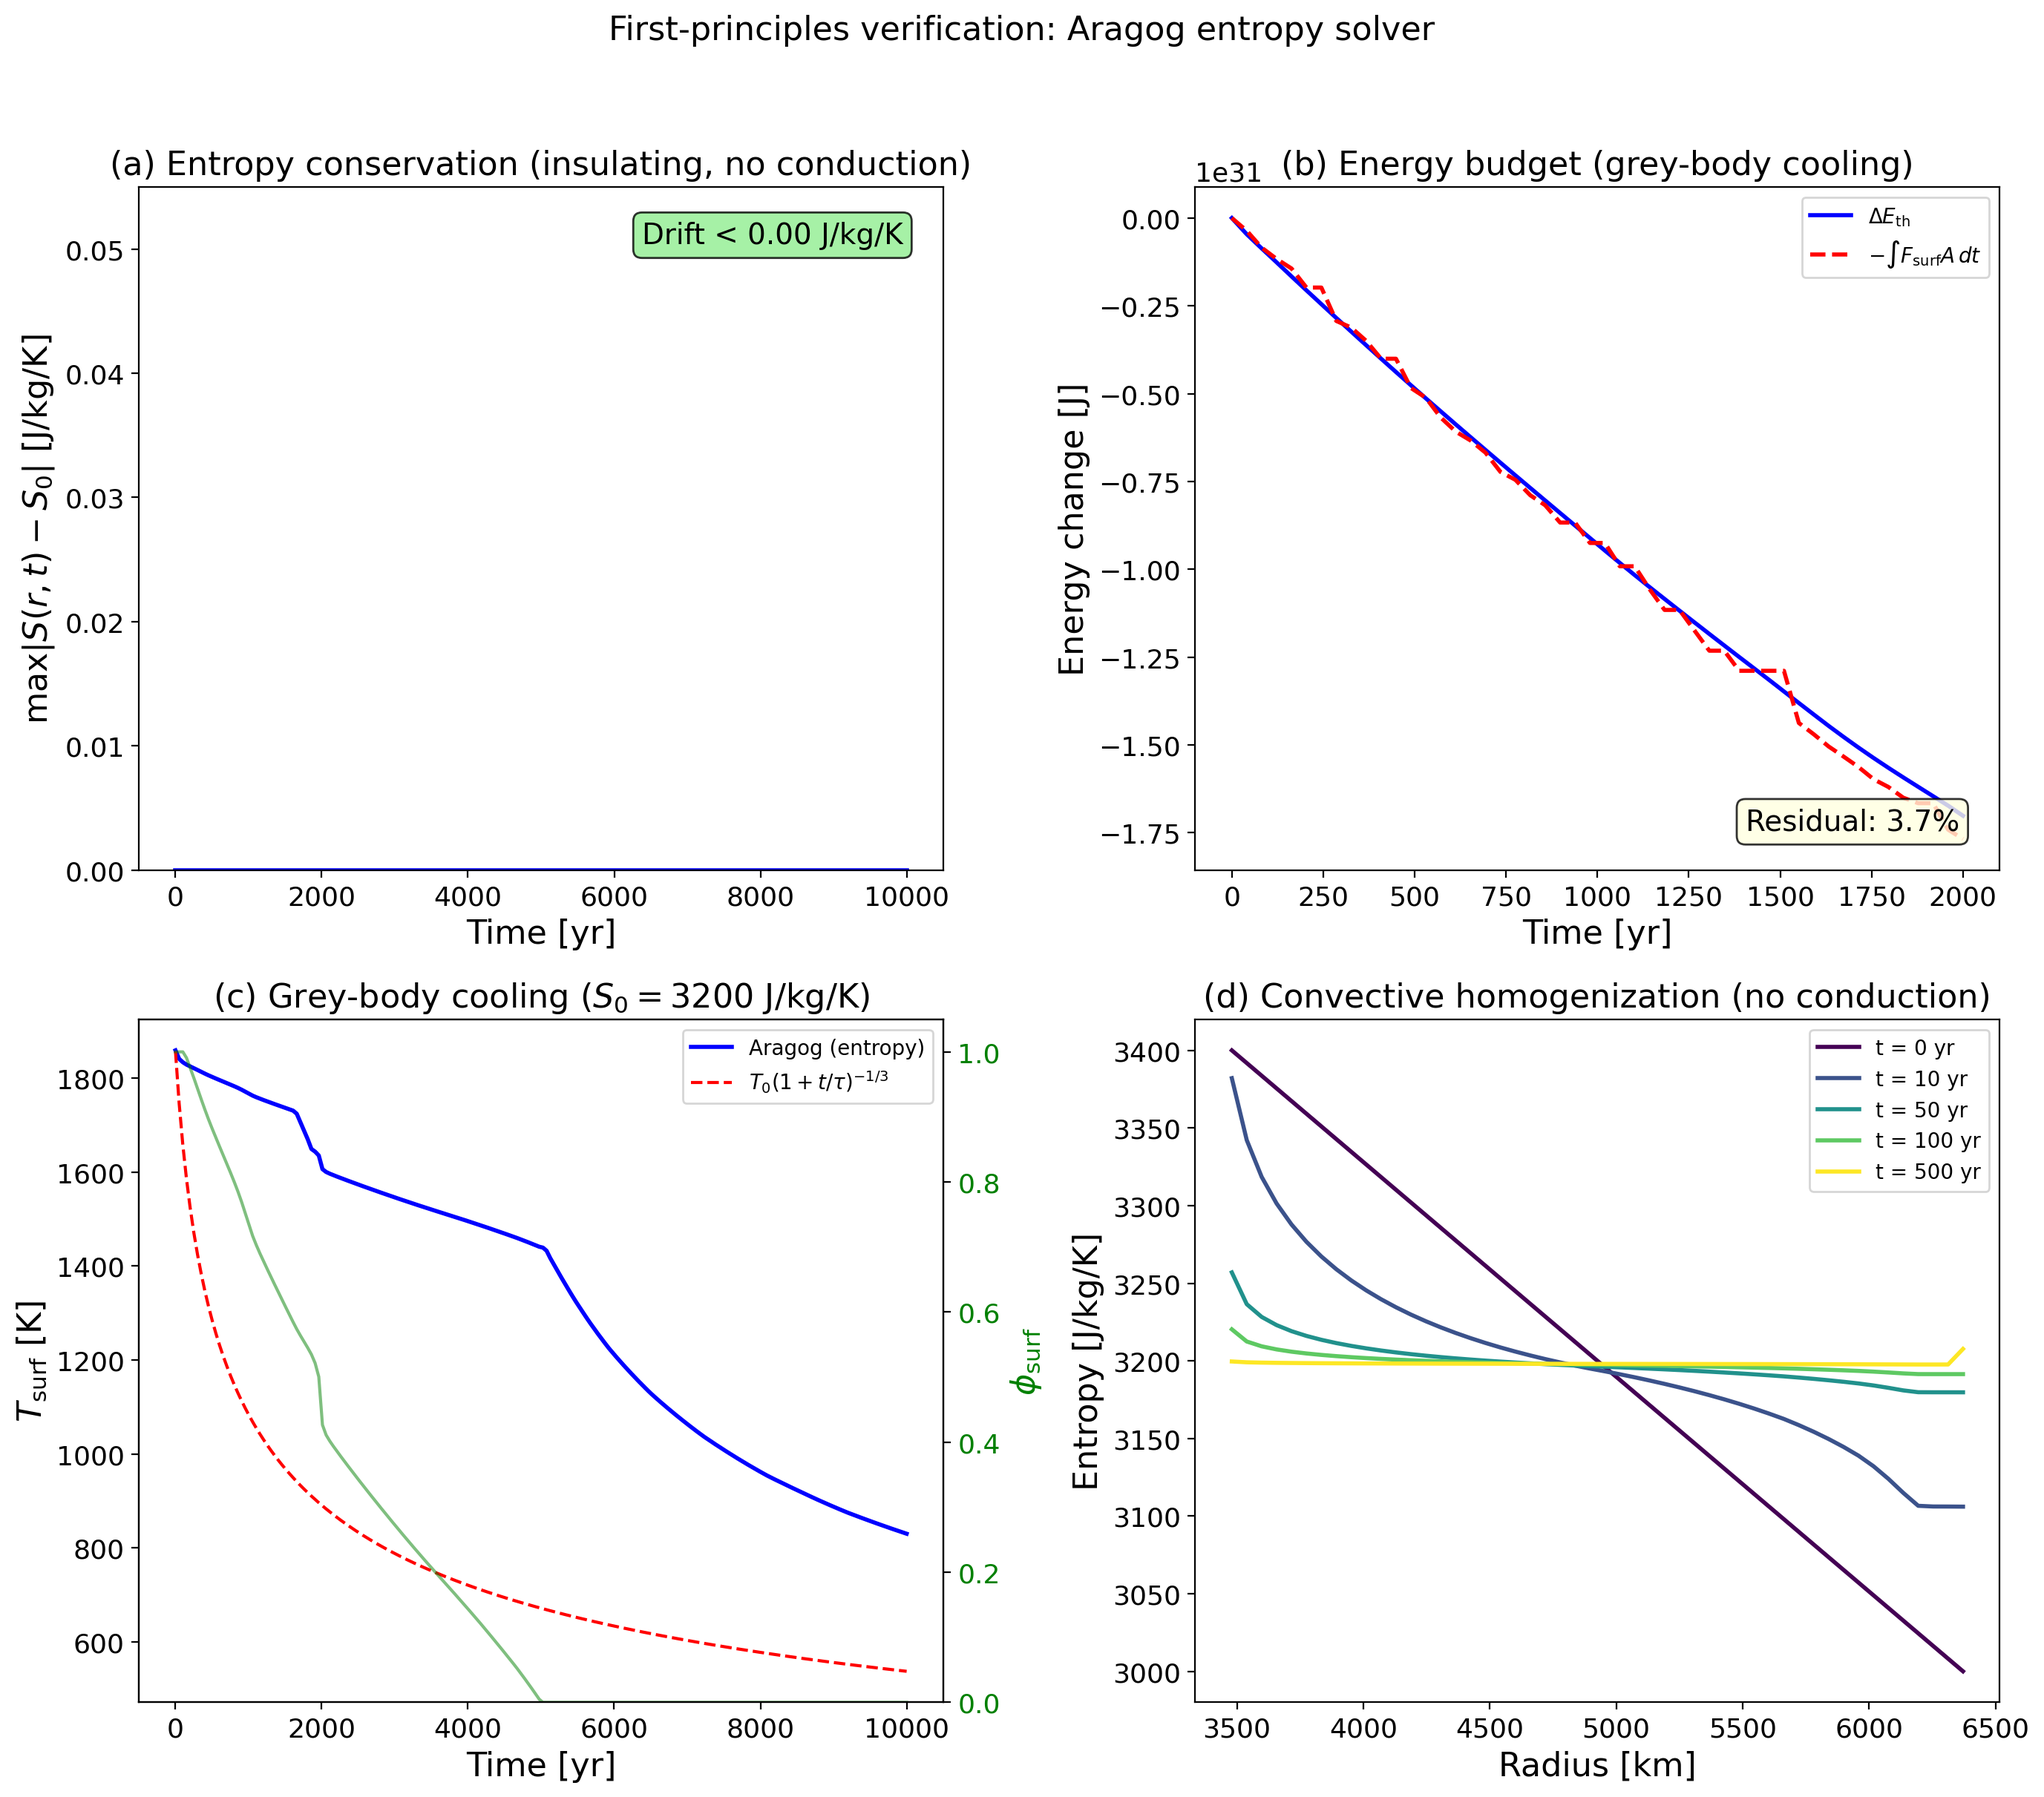
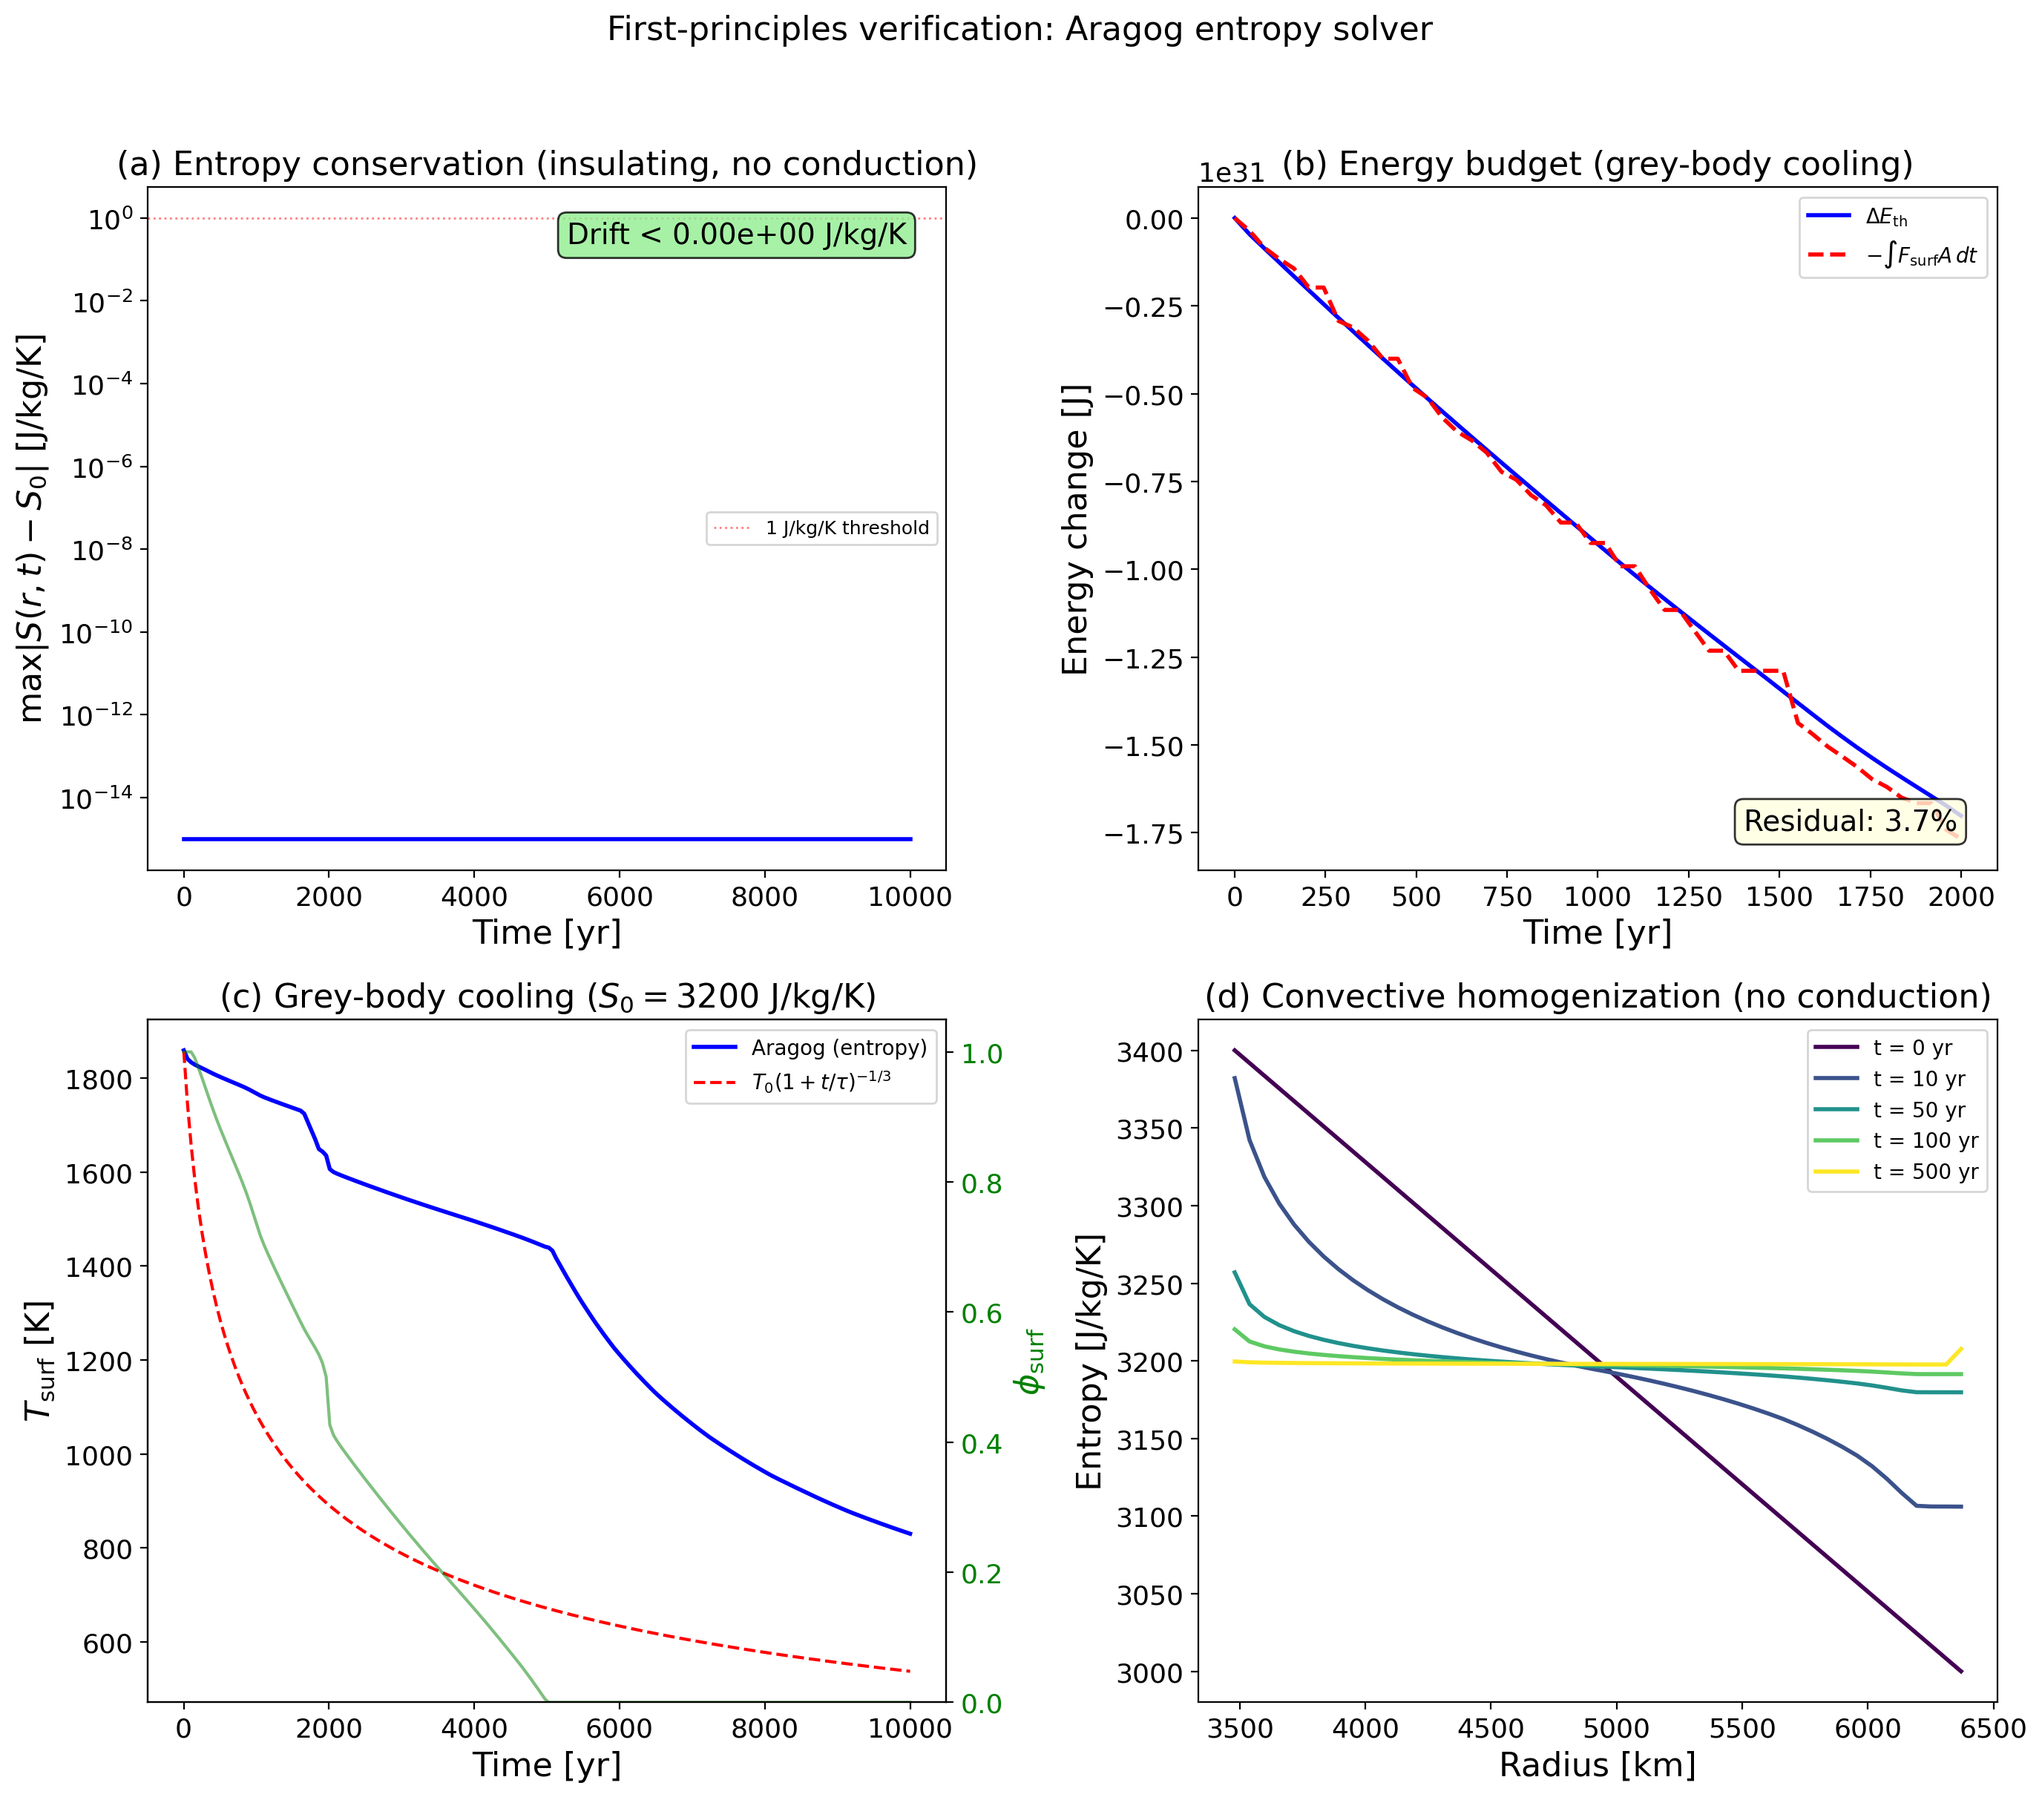
Panel (a): log y-axis for entropy conservation drift

diff --git a/output/entropy_verification/run_verification.py b/output/entropy_verification/run_verification.py
@@ -228,12 +228,13 @@ def main():
 
     # Panel (a): Entropy conservation
     ax = axes[0, 0]
-    ax.plot(times1, max_drift, 'b-', linewidth=2)
+    ax.semilogy(times1, np.maximum(max_drift, 1e-15), 'b-', linewidth=2)
     ax.set_xlabel('Time [yr]')
     ax.set_ylabel(r'max$|S(r,t) - S_0|$ [J/kg/K]')
     ax.set_title('(a) Entropy conservation (insulating, no conduction)')
-    ax.set_ylim(bottom=0)
-    ax.text(0.95, 0.95, f'Drift < {max(max_drift):.2f} J/kg/K',
+    ax.axhline(1.0, color='r', ls=':', lw=1, alpha=0.5, label='1 J/kg/K threshold')
+    ax.legend(fontsize=9)
+    ax.text(0.95, 0.95, f'Drift < {max(max_drift):.2e} J/kg/K',
             transform=ax.transAxes, ha='right', va='top',
             bbox=dict(boxstyle='round', facecolor='lightgreen', alpha=0.8))
 
